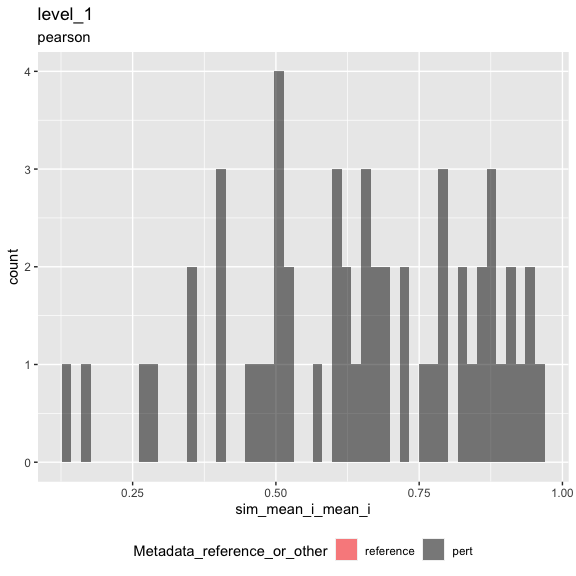
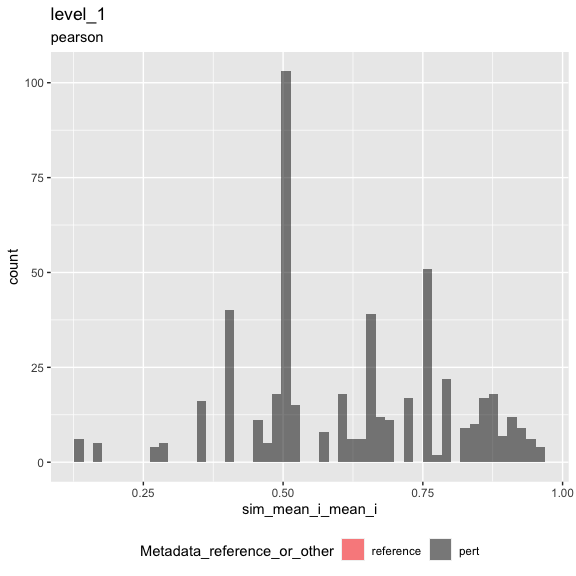
rerun after updating matric

diff --git a/matric/results/5d205c3f/4.inspect_metrics.md b/matric/results/5d205c3f/4.inspect_metrics.md
@@ -193,7 +193,7 @@ result <-
 result$fig1
 ```
 
-    ## Warning: Removed 54 rows containing non-finite values (stat_bin).
+    ## Warning: Removed 512 rows containing non-finite values (stat_bin).
 
 ![](4.inspect_metrics_files/figure-gfm/unnamed-chunk-14-1.png)<!-- -->
 
@@ -205,14 +205,14 @@ level_1_metrics %>%
 
 <div class="kable-table">
 
-| Metadata\_cell\_line | Metadata\_gene\_name | Metadata\_reference\_or\_other | sim\_scaled\_mean\_ref\_i\_mean\_i | sim\_scaled\_mean\_ref\_i\_median\_i | sim\_scaled\_median\_ref\_i\_mean\_i | sim\_scaled\_median\_ref\_i\_median\_i | sim\_ranked\_relrank\_mean\_ref\_i\_mean\_i | sim\_ranked\_relrank\_mean\_ref\_i\_median\_i | sim\_ranked\_relrank\_median\_ref\_i\_mean\_i | sim\_ranked\_relrank\_median\_ref\_i\_median\_i | sim\_mean\_i\_mean\_i | sim\_mean\_i\_median\_i | sim\_median\_i\_mean\_i | sim\_median\_i\_median\_i | sim\_mean\_stat\_ref\_i\_mean\_i | sim\_mean\_stat\_ref\_i\_median\_i | sim\_sd\_stat\_ref\_i\_mean\_i | sim\_sd\_stat\_ref\_i\_median\_i | sim\_retrieval\_average\_precision\_ref\_i\_mean\_i | sim\_retrieval\_average\_precision\_ref\_i\_median\_i | sim\_retrieval\_r\_precision\_ref\_i\_mean\_i | sim\_retrieval\_r\_precision\_ref\_i\_median\_i |
-|:---------------------|:---------------------|:-------------------------------|-----------------------------------:|-------------------------------------:|-------------------------------------:|---------------------------------------:|--------------------------------------------:|----------------------------------------------:|----------------------------------------------:|------------------------------------------------:|----------------------:|------------------------:|------------------------:|--------------------------:|---------------------------------:|-----------------------------------:|-------------------------------:|---------------------------------:|----------------------------------------------------:|------------------------------------------------------:|----------------------------------------------:|------------------------------------------------:|
-| A549                 | ABCB9                | pert                           |                                 NA |                                   NA |                                   NA |                                     NA |                                           1 |                                             1 |                                             1 |                                               1 |             0.2823952 |               0.2895140 |               0.2781566 |                 0.2768693 |                       -0.0039079 |                          0.0016027 |                             NA |                               NA |                                             1.00000 |                                                     1 |                                     1.0000000 |                                               1 |
-| A549                 | AKR1B1               | pert                           |                                 NA |                                   NA |                                   NA |                                     NA |                                           1 |                                             1 |                                             1 |                                               1 |             0.9063015 |               0.9197033 |               0.9127061 |                 0.9243223 |                       -0.0157051 |                         -0.0153981 |                             NA |                               NA |                                             1.00000 |                                                     1 |                                     1.0000000 |                                               1 |
-| A549                 | AKT1                 | pert                           |                                 NA |                                   NA |                                   NA |                                     NA |                                           1 |                                             1 |                                             1 |                                               1 |             0.6181598 |               0.6226712 |               0.6181598 |                 0.6226712 |                       -0.0263392 |                         -0.0317858 |                             NA |                               NA |                                             1.00000 |                                                     1 |                                     1.0000000 |                                               1 |
-| A549                 | ARAF                 | pert                           |                                 NA |                                   NA |                                   NA |                                     NA |                                           1 |                                             1 |                                             1 |                                               1 |             0.6113193 |               0.7135967 |               0.7455736 |                 0.9138345 |                       -0.0023386 |                         -0.0043271 |                             NA |                               NA |                                             1.00000 |                                                     1 |                                     1.0000000 |                                               1 |
-| A549                 | ATF2                 | pert                           |                                 NA |                                   NA |                                   NA |                                     NA |                                           1 |                                             1 |                                             1 |                                               1 |             0.6447227 |               0.6932418 |               0.6870548 |                 0.7141004 |                        0.0054881 |                          0.0053304 |                             NA |                               NA |                                             1.00000 |                                                     1 |                                     1.0000000 |                                               1 |
-| A549                 | BRAF                 | pert                           |                                 NA |                                   NA |                                   NA |                                     NA |                                           1 |                                             1 |                                             1 |                                               1 |             0.4865467 |               0.5673988 |               0.5438855 |                 0.6836047 |                       -0.0017621 |                         -0.0036909 |                             NA |                               NA |                                             0.99763 |                                                     1 |                                     0.9771242 |                                               1 |
+| Metadata\_cell\_line | Metadata\_gene\_name | Metadata\_reference\_or\_other | Metadata\_pert\_name | sim\_scaled\_mean\_ref\_i\_mean\_i | sim\_scaled\_mean\_ref\_i\_median\_i | sim\_scaled\_median\_ref\_i\_mean\_i | sim\_scaled\_median\_ref\_i\_median\_i | sim\_ranked\_relrank\_mean\_ref\_i\_mean\_i | sim\_ranked\_relrank\_mean\_ref\_i\_median\_i | sim\_ranked\_relrank\_median\_ref\_i\_mean\_i | sim\_ranked\_relrank\_median\_ref\_i\_median\_i | sim\_mean\_i\_mean\_i | sim\_mean\_i\_median\_i | sim\_median\_i\_mean\_i | sim\_median\_i\_median\_i | sim\_mean\_stat\_ref\_i\_mean\_i | sim\_mean\_stat\_ref\_i\_median\_i | sim\_sd\_stat\_ref\_i\_mean\_i | sim\_sd\_stat\_ref\_i\_median\_i | sim\_retrieval\_average\_precision\_ref\_i\_mean\_i | sim\_retrieval\_average\_precision\_ref\_i\_median\_i | sim\_retrieval\_r\_precision\_ref\_i\_mean\_i | sim\_retrieval\_r\_precision\_ref\_i\_median\_i |
+|:---------------------|:---------------------|:-------------------------------|:---------------------|-----------------------------------:|-------------------------------------:|-------------------------------------:|---------------------------------------:|--------------------------------------------:|----------------------------------------------:|----------------------------------------------:|------------------------------------------------:|----------------------:|------------------------:|------------------------:|--------------------------:|---------------------------------:|-----------------------------------:|-------------------------------:|---------------------------------:|----------------------------------------------------:|------------------------------------------------------:|----------------------------------------------:|------------------------------------------------:|
+| A549                 | ABCB9                | pert                           | ABCB9\_p.G443C       |                                 NA |                                   NA |                                   NA |                                     NA |                                           1 |                                             1 |                                             1 |                                               1 |             0.2823952 |               0.2895140 |               0.2781566 |                 0.2768693 |                       -0.0039079 |                          0.0016027 |                             NA |                               NA |                                                   1 |                                                     1 |                                             1 |                                               1 |
+| A549                 | ABCB9                | pert                           | ABCB9\_p.R281L       |                                 NA |                                   NA |                                   NA |                                     NA |                                           1 |                                             1 |                                             1 |                                               1 |             0.2823952 |               0.2895140 |               0.2781566 |                 0.2768693 |                       -0.0039079 |                          0.0016027 |                             NA |                               NA |                                                   1 |                                                     1 |                                             1 |                                               1 |
+| A549                 | ABCB9                | pert                           | ABCB9\_p.V140M       |                                 NA |                                   NA |                                   NA |                                     NA |                                           1 |                                             1 |                                             1 |                                               1 |             0.2823952 |               0.2895140 |               0.2781566 |                 0.2768693 |                       -0.0039079 |                          0.0016027 |                             NA |                               NA |                                                   1 |                                                     1 |                                             1 |                                               1 |
+| A549                 | ABCB9                | pert                           | ABCB9\_WT.c          |                                 NA |                                   NA |                                   NA |                                     NA |                                           1 |                                             1 |                                             1 |                                               1 |             0.2823952 |               0.2895140 |               0.2781566 |                 0.2768693 |                       -0.0039079 |                          0.0016027 |                             NA |                               NA |                                                   1 |                                                     1 |                                             1 |                                               1 |
+| A549                 | ABCB9                | pert                           | ABCB9\_WT.o          |                                 NA |                                   NA |                                   NA |                                     NA |                                           1 |                                             1 |                                             1 |                                               1 |             0.2823952 |               0.2895140 |               0.2781566 |                 0.2768693 |                       -0.0039079 |                          0.0016027 |                             NA |                               NA |                                                   1 |                                                     1 |                                             1 |                                               1 |
+| A549                 | AKR1B1               | pert                           | AKR1B1\_p.F252L      |                                 NA |                                   NA |                                   NA |                                     NA |                                           1 |                                             1 |                                             1 |                                               1 |             0.9063015 |               0.9197033 |               0.9127061 |                 0.9243223 |                       -0.0157051 |                         -0.0153981 |                             NA |                               NA |                                                   1 |                                                     1 |                                             1 |                                               1 |
 
 </div>
 
@@ -227,10 +227,6 @@ level_1_metrics %>%
   rename_with(~ str_remove_all(., "sim_|_ref_i_mean_i"), matches("sim_")) %>%
   GGally::ggpairs(progress = FALSE)
 ```
-
-    ## Registered S3 method overwritten by 'GGally':
-    ##   method from   
-    ##   +.gg   ggplot2
 
     ## Warning in cor(x, y): the standard deviation is zero
 

diff --git a/matric/results/5d205c3f/0.knit-notebooks.md b/matric/results/5d205c3f/0.knit-notebooks.md
@@ -199,17 +199,6 @@ if (file.exists(output_profile_file) &
 }
 ```
 
-    ## 
-    ## Attaching package: 'arrow'
-
-    ## The following object is masked from 'package:magrittr':
-    ## 
-    ##     is_in
-
-    ## The following object is masked from 'package:utils':
-    ## 
-    ##     timestamp
-
 ## 2.2 3.calculate\_metrics
 
 ``` r
